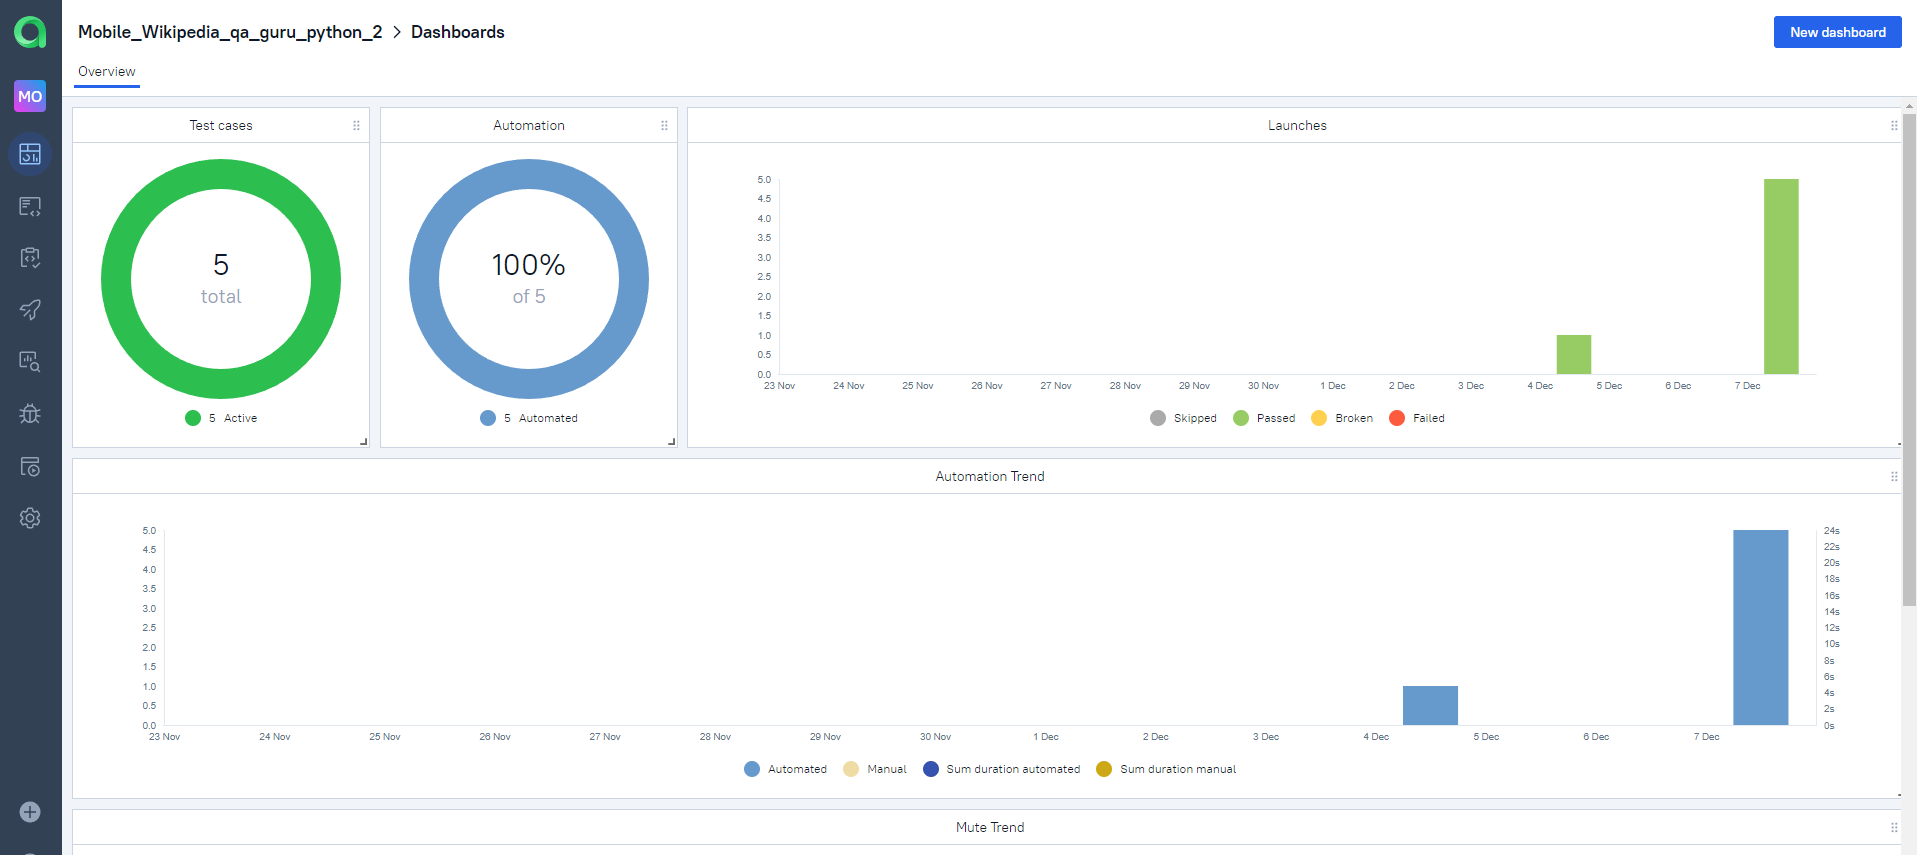
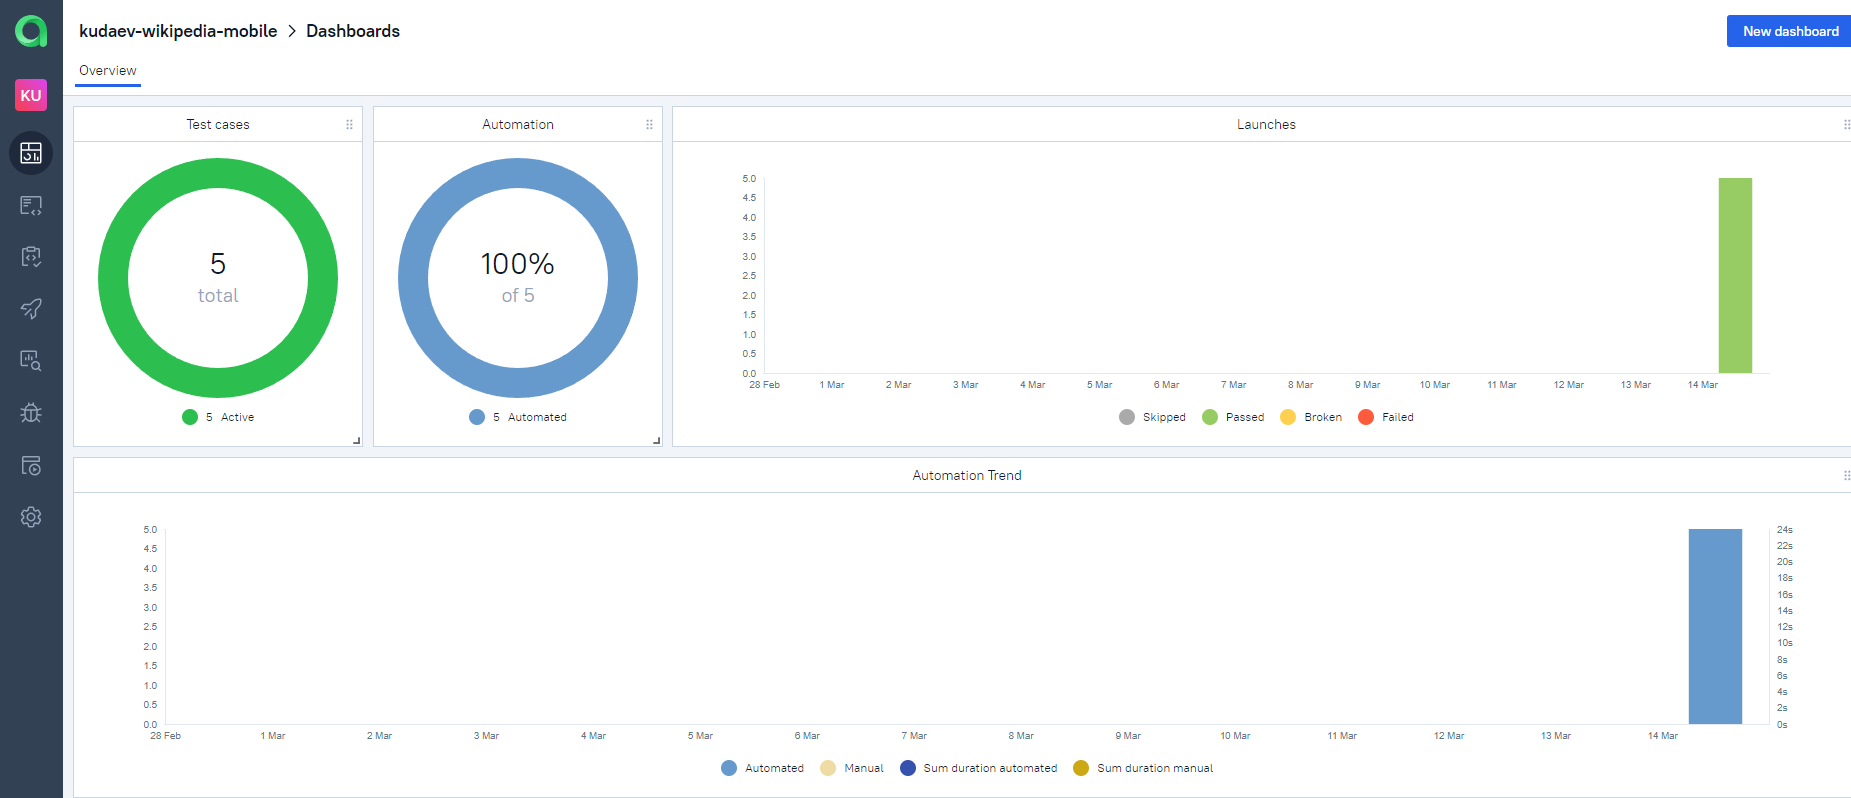
feat: last version of wikipedia-mobile project

diff --git a/README.md b/README.md
@@ -21,31 +21,27 @@
 
 <!-- Тест кейсы -->
 
-### Что проверяем
-* Поиск по выражению
-* Поиск по числу
-* Поиск по html тегу
-* Поиск по пустому полю
-* Поиск по специальным символам
+### Что проверяют тесты
+![This is an image](images/screenshots/test_cases.png)
 
 
 <!-- Jenkins -->
 
 ### <img width="3%" title="Jenkins" src="images/logo_stacks/jenkins.png">  Запуск проекта в Jenkins
-### [Job](https://jenkins.autotests.cloud/job/Mobile_Wikipedia_qa_guru_python_2/)
-##### При нажатии на "Собрать сейчас" начнется сборка тестов и их прохождение, через виртуальную машину в Selenide.
+### [Job](https://jenkins.autotests.cloud/job/kudaev-wikipedia-mobile/)
+##### При нажатии на "Собрать сейчас" начнется сборка тестов и их прохождение на сервере jenkins.
 ![This is an image](images/screenshots/jenkins.png)
+
+Также мы можем посмотреть выполнение тестов в консоли перейдя во вкладку "Вывод консоли" у определенного билда
+![This is an image](images/screenshots/jenkins_console.png)
 
 
 <!-- Browserstack -->
 
-### <img width="3%" title="Browserstack" src="images/logo_stacks/browserstack.png"> Запуск проекта в [Browserstack](https://www.browserstack.com)
+### <img width="3%" title="Browserstack" src="images/logo_stacks/browserstack.png"> Запуск проекта в [Browserstack](https://app-automate.browserstack.com/dashboard/v2/builds/be982c566cce4ce727bba8deb0155db9b6cdbcb2/sessions/456557888aad153346a3d5cfb8d1ee56f4d3b642)
 ##### После запуска сборки в Jenkins, тесты начинают проходить удаленно через Browserstack. Где в реальном времени можно следить за прохождением теста через логи.
 
 ![This is an image](images/screenshots/browserstack.png)
-
-##### Для интеграции c Browserstack, в настройке сборки, в разделе .env указать необходимые креды. Пример кред, можно посмотреть в файле [.env_examples](https://github.com/surovp/Mobile_Wiki/blob/master/.env_examples)
-
 
 <!-- Allure report -->
 
@@ -68,7 +64,7 @@
 
 ### <img width="3%" title="Allure TestOps" src="images/logo_stacks/allure_testops.png"> Интеграция с Allure TestOps
 
-### [Dashboard](https://allure.autotests.cloud/project/1727/dashboards)
+### [Dashboard](https://allure.autotests.cloud/project/2027/dashboards)
 
 ##### Так же вся отчетность сохраняется в Allure TestOps, где строятся аналогичные графики.
 ![This is an image](images/screenshots/allure_testops_dashboard.png)
@@ -80,6 +76,9 @@
 - Добавлять ручные тесты и т.д
 
 ![This is an image](images/screenshots/allure_testops_suites.png)
+
+Во вкладке Launches мы можем видить тестовые прогоны:
+![This is an image](images/screenshots/allure_testops_launches.png)
 
 
 <!-- Jira -->
